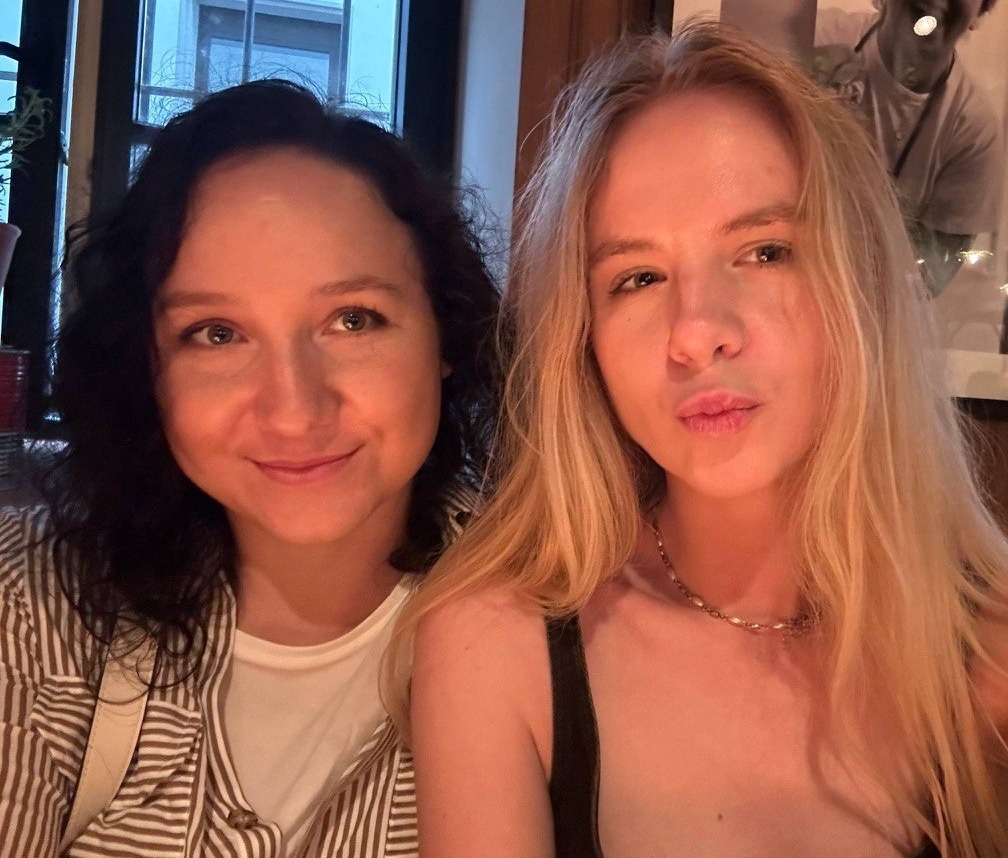
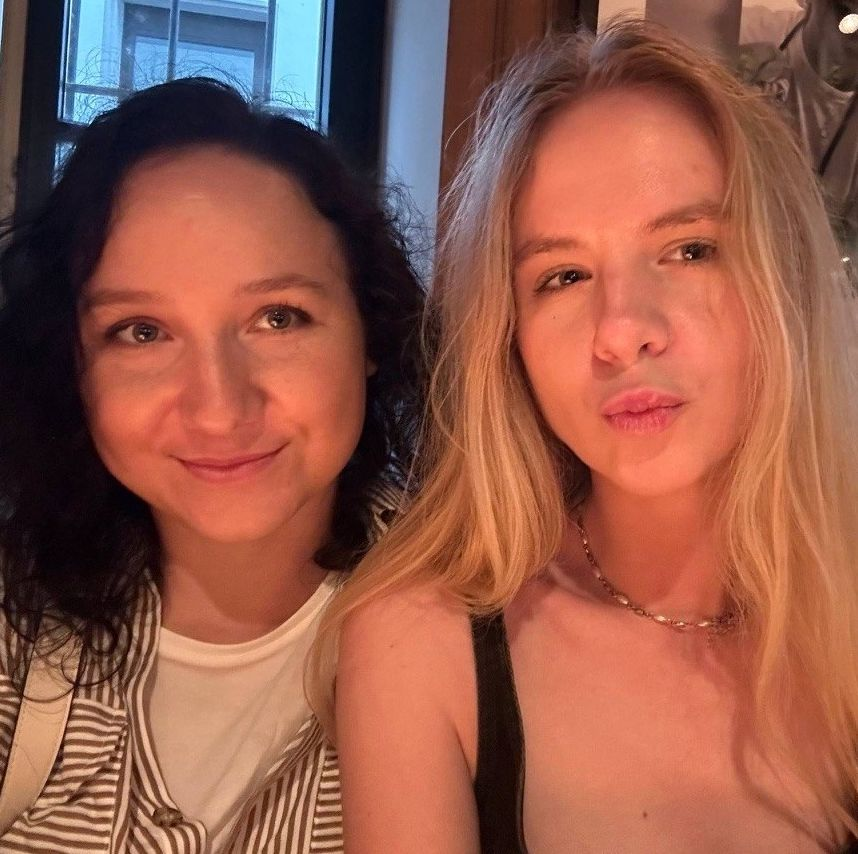
Add files via upload

diff --git a/js/puzzle.js b/js/puzzle.js
@@ -112,11 +112,20 @@ const PuzzleGame = (function() {
         const aspect = (imgH / rows) / (imgW / cols);
         const pieceH = Math.floor(pieceW * aspect);
         const marginX = pieceW / 2;
-        const marginY = pieceH / 2;
+
+        // The board also needs to double as a "parking lot" for pieces you're not
+        // working on yet — on a phone there's little room to drag them out of the
+        // way. Add a third more vertical space on top of the base half-piece
+        // margin, without touching pieceH, so the assembled photo stays the same
+        // size and only the empty workspace above/below it grows.
+        const baseMarginY = pieceH / 2;
+        const boardHBeforeExtraSpace = pieceH * rows + baseMarginY * 2;
+        const extraVerticalSpace = boardHBeforeExtraSpace / 3;
+        const marginY = baseMarginY + extraVerticalSpace / 2;
 
         // Playfield is the grid plus that margin on every side
         const boardW = pieceW * cols + marginX * 2;
-        const boardH = pieceH * rows + marginY * 2;
+        const boardH = pieceH * rows + marginY * 2; // = boardHBeforeExtraSpace * 4/3
 
         boardEl.style.width = `${boardW}px`;
         boardEl.style.height = `${boardH}px`;
@@ -153,6 +162,27 @@ const PuzzleGame = (function() {
 
           // Activate image scaling according to Headbreaker documentation
           hbCanvas.adjustImagesToPuzzleHeight();
+
+          // headbreaker reuses each piece's targetPosition as the base offset for
+          // cropping the source image, not just for placing the piece on the board:
+          //   cropOffset = (targetPosition + imageMetadata.offset - pieceDiameter) / scale
+          // (see _baseImageMetadataFor + adjustImagesToPuzzle in the library).
+          //
+          // targetPosition below is `margin + cell + pieceSize/2`, so without a
+          // correction the margin leaks into the crop and shifts which slice of the
+          // photo every piece shows. Push it far enough and the crop starts at a
+          // NEGATIVE image coordinate; Konva's fillPatternRepeat:'repeat' then wraps
+          // it, so the top row renders content from the BOTTOM of the photo.
+          //
+          // Solving that equation for piece (0,0) to crop at exactly image (0,0):
+          //   margin + pieceSize/2 + offset - pieceSize = 0  =>  offset = pieceSize/2 - margin
+          // This holds for ANY margin, so the vertical workspace can grow freely.
+          // (It also explains why margin == pieceSize/2 happened to work with no
+          // correction at all: the two terms cancelled by coincidence.)
+          hbCanvas.imageMetadata.offset = {
+            x: pieceW / 2 - marginX,
+            y: pieceH / 2 - marginY
+          };
 
           // Generate 100% guaranteed complementary Tab & Slot objects for all inside edges
           const horiz = [], vert = [];

diff --git a/js/storyData.js b/js/storyData.js
@@ -54,7 +54,7 @@ const CHAPTERS = [
   id:'ch1_puzzle', num:'1b', title:'The Match Puzzle', ico:'🧩', loc:'Photo Puzzle',
   type:'puzzle',
   image:'assets/ch1_puzzle.jpg',
-  grid:{ cols:4, rows:4 }
+  grid:{ cols:4, rows:3 } // 12 pieces, keeps pieces close to square (photo is ~1008x858)
 },
 {
   id:'heidelberg', num:2, title:'First Meeting', ico:'🏰', loc:'Heidelberg',
